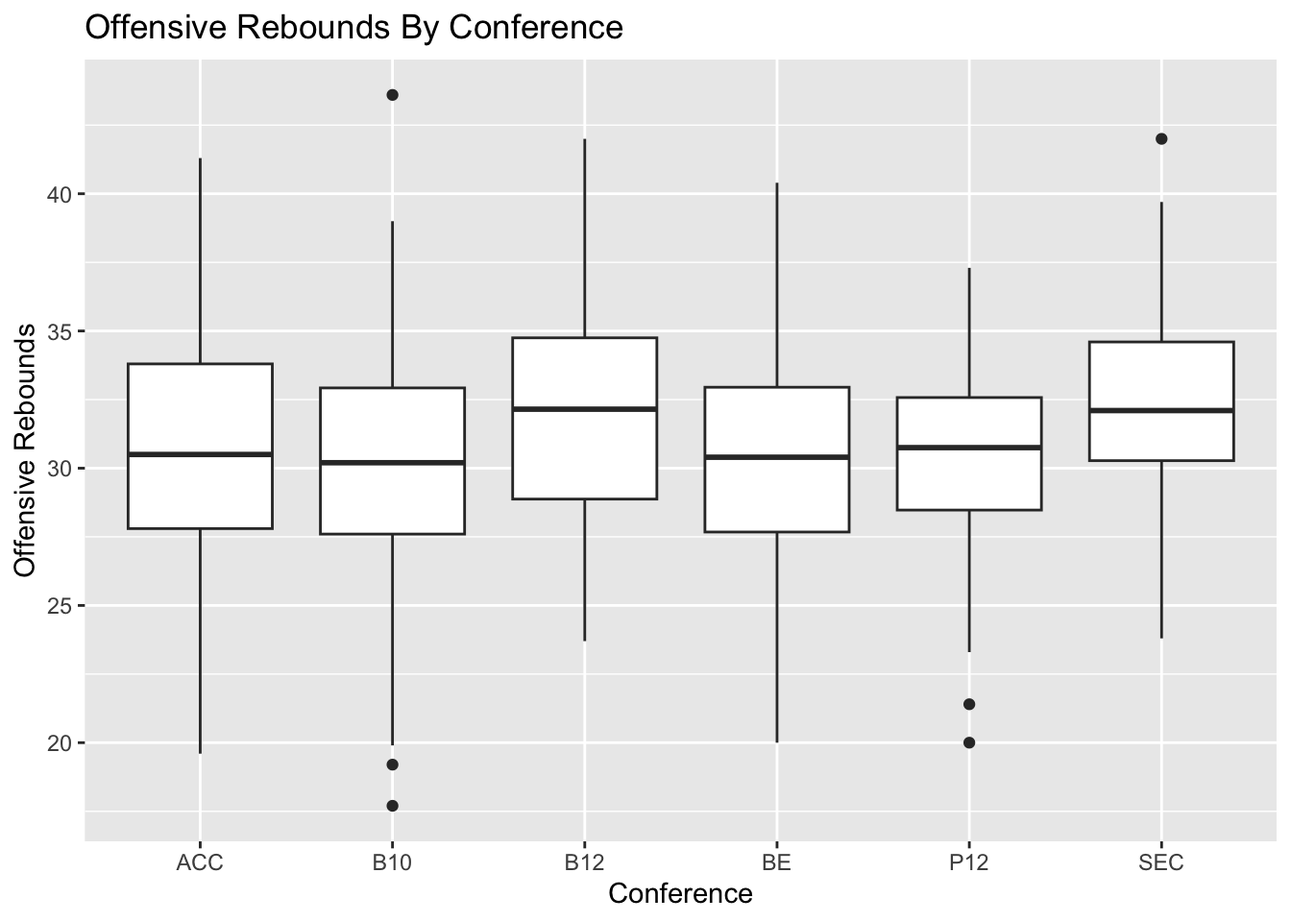
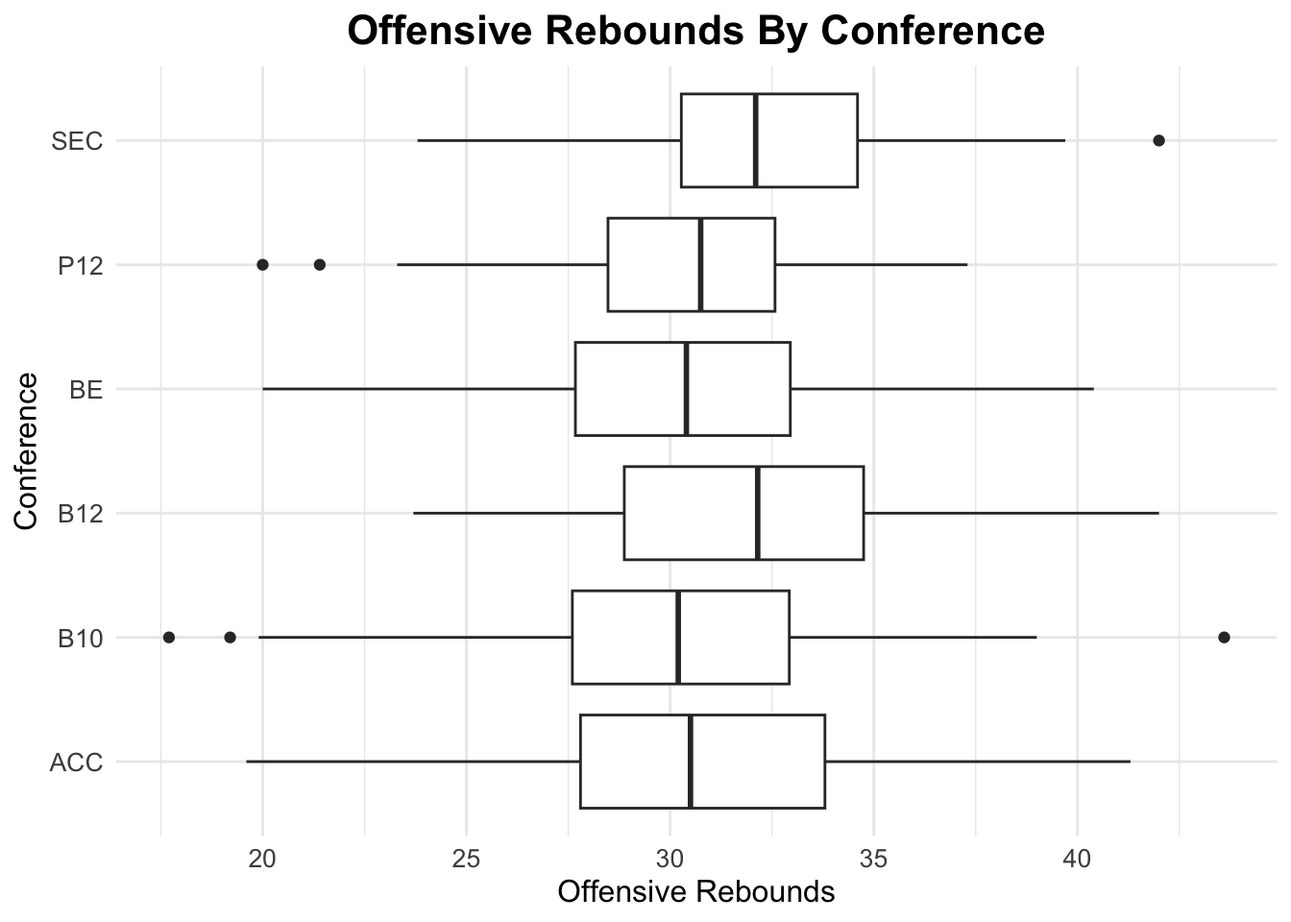
.

diff --git a/docs/-2.html b/docs/-2.html
@@ -440,7 +440,11 @@ singularities as well. 4.1412</code></pre>
 <div class="sourceCode cell-code" id="cb33"><pre class="sourceCode numberSource r number-lines code-with-copy"><code class="sourceCode r"><span id="cb33-1"><a href="#cb33-1"></a><span class="fu">library</span>(tidyverse)</span>
 <span id="cb33-2"><a href="#cb33-2"></a></span>
 <span id="cb33-3"><a href="#cb33-3"></a></span>
+<<<<<<< Updated upstream
 <span id="cb33-4"><a href="#cb33-4"></a><span class="fu">ggplot</span>(CONF_win_perc, <span class="fu">aes</span>(<span class="at">x =</span> <span class="fu">fct_reorder</span>(CONF, <span class="sc">-</span>win_percentage), <span class="at">y =</span> win_percentage, <span class="at">fill =</span> win_percentage)) <span class="sc">+</span></span>
+=======
+<span id="cb33-4"><a href="#cb33-4"></a><span class="fu">ggplot</span>(CONF_win_perc, <span class="fu">aes</span>(<span class="at">x =</span> <span class="fu">fct_reorder</span>(CONF, win_percentage), <span class="at">y =</span> win_percentage, <span class="at">fill =</span> win_percentage)) <span class="sc">+</span></span>
+>>>>>>> Stashed changes
 <span id="cb33-5"><a href="#cb33-5"></a>  <span class="fu">geom_col</span>() <span class="sc">+</span></span>
 <span id="cb33-6"><a href="#cb33-6"></a>  <span class="fu">coord_flip</span>() <span class="sc">+</span></span>
 <span id="cb33-7"><a href="#cb33-7"></a>  <span class="fu">labs</span>(</span>
@@ -451,7 +455,11 @@ singularities as well. 4.1412</code></pre>
 <span id="cb33-12"><a href="#cb33-12"></a>  ) <span class="sc">+</span></span>
 <span id="cb33-13"><a href="#cb33-13"></a>  <span class="fu">scale_fill_gradient</span>(<span class="at">low =</span> <span class="st">"lightblue"</span>, <span class="at">high =</span> <span class="st">"darkblue"</span>) <span class="sc">+</span></span>
 <span id="cb33-14"><a href="#cb33-14"></a>  <span class="fu">theme_minimal</span>() <span class="sc">+</span></span>
+<<<<<<< Updated upstream
 <span id="cb33-15"><a href="#cb33-15"></a>  <span class="fu">theme</span>(<span class="at">axis.text.y =</span> <span class="fu">element_text</span>(<span class="at">size =</span> <span class="dv">8</span>))</span></code><button title="Copy to Clipboard" class="code-copy-button"><i class="bi"></i></button></pre></div>
+=======
+<span id="cb33-15"><a href="#cb33-15"></a>  <span class="fu">theme</span>(<span class="at">axis.text.y =</span> <span class="fu">element_text</span>(<span class="at">size =</span> <span class="dv">10</span>))</span></code><button title="Copy to Clipboard" class="code-copy-button"><i class="bi"></i></button></pre></div>
+>>>>>>> Stashed changes
 <div class="cell-output cell-output-stderr">
 <pre><code>Warning: `fct_reorder()` removing 1 missing value.
 ℹ Use `.na_rm = TRUE` to silence this message.
@@ -479,7 +487,20 @@ singularities as well. 4.1412</code></pre>
 <span id="cb37-6"><a href="#cb37-6"></a>  <span class="fu">facet_wrap</span>(<span class="sc">~</span>CONF) <span class="sc">+</span></span>
 <span id="cb37-7"><a href="#cb37-7"></a>  <span class="fu">labs</span>(<span class="at">title =</span> <span class="st">"3 Point % Impact on Wins"</span>,</span>
 <span id="cb37-8"><a href="#cb37-8"></a>    <span class="at">x =</span> <span class="st">"3 Point %"</span>, </span>
+<<<<<<< Updated upstream
 <span id="cb37-9"><a href="#cb37-9"></a>       <span class="at">y =</span> <span class="st">"Number of Wins"</span>)</span></code><button title="Copy to Clipboard" class="code-copy-button"><i class="bi"></i></button></pre></div>
+=======
+<span id="cb37-9"><a href="#cb37-9"></a>       <span class="at">y =</span> <span class="st">"Number of Wins"</span>) <span class="sc">+</span></span>
+<span id="cb37-10"><a href="#cb37-10"></a>    <span class="fu">theme_minimal</span>(<span class="at">base_size =</span> <span class="dv">14</span>) <span class="sc">+</span>  </span>
+<span id="cb37-11"><a href="#cb37-11"></a>  <span class="fu">theme</span>(</span>
+<span id="cb37-12"><a href="#cb37-12"></a>    <span class="at">strip.text =</span> <span class="fu">element_text</span>(<span class="at">face =</span> <span class="st">"bold"</span>, <span class="at">size =</span> <span class="dv">12</span>),  </span>
+<span id="cb37-13"><a href="#cb37-13"></a>    <span class="at">plot.title =</span> <span class="fu">element_text</span>(<span class="at">face =</span> <span class="st">"bold"</span>, <span class="at">size =</span> <span class="dv">16</span>, <span class="at">hjust =</span> <span class="fl">0.5</span>),  </span>
+<span id="cb37-14"><a href="#cb37-14"></a>    <span class="at">plot.subtitle =</span> <span class="fu">element_text</span>(<span class="at">hjust =</span> <span class="fl">0.5</span>, <span class="at">size =</span> <span class="dv">12</span>),  </span>
+<span id="cb37-15"><a href="#cb37-15"></a>    <span class="at">axis.title =</span> <span class="fu">element_text</span>(<span class="at">face =</span> <span class="st">"bold"</span>),  </span>
+<span id="cb37-16"><a href="#cb37-16"></a>    <span class="at">panel.grid.major =</span> <span class="fu">element_line</span>(<span class="at">color =</span> <span class="st">"gray85"</span>, <span class="at">linetype =</span> <span class="st">"dashed"</span>),  <span class="co"># Subtle grid lines</span></span>
+<span id="cb37-17"><a href="#cb37-17"></a>    <span class="at">panel.spacing =</span> <span class="fu">unit</span>(<span class="fl">1.2</span>, <span class="st">"lines"</span>)  <span class="co"># Increase spacing between facets</span></span>
+<span id="cb37-18"><a href="#cb37-18"></a>  )</span></code><button title="Copy to Clipboard" class="code-copy-button"><i class="bi"></i></button></pre></div>
+>>>>>>> Stashed changes
 <div class="cell-output cell-output-stderr">
 <pre><code>`geom_smooth()` using formula = 'y ~ x'</code></pre>
 </div>
@@ -555,11 +576,24 @@ singularities as well. 4.1412</code></pre>
 <div class="sourceCode cell-code" id="cb46"><pre class="sourceCode numberSource r number-lines code-with-copy"><code class="sourceCode r"><span id="cb46-1"><a href="#cb46-1"></a>march_madness_new <span class="sc">|&gt;</span></span>
 <span id="cb46-2"><a href="#cb46-2"></a>  <span class="fu">filter</span>(CONF <span class="sc">%in%</span> <span class="fu">c</span>(<span class="st">"ACC"</span>, <span class="st">"B10"</span>, <span class="st">"B12"</span>, <span class="st">"SEC"</span>, <span class="st">"P12"</span>, <span class="st">"BE"</span>)) <span class="sc">|&gt;</span></span>
 <span id="cb46-3"><a href="#cb46-3"></a>  <span class="fu">ggplot</span>(<span class="fu">aes</span> (<span class="at">x =</span> ADJDE, <span class="at">y =</span> W, <span class="at">color =</span> CONF)) <span class="sc">+</span></span>
+<<<<<<< Updated upstream
 <span id="cb46-4"><a href="#cb46-4"></a>  <span class="fu">geom_point</span>() <span class="sc">+</span></span>
 <span id="cb46-5"><a href="#cb46-5"></a>  <span class="fu">geom_smooth</span>(<span class="at">se =</span> <span class="cn">FALSE</span>) <span class="sc">+</span></span>
 <span id="cb46-6"><a href="#cb46-6"></a>  <span class="fu">labs</span>(<span class="at">x =</span> <span class="st">"Defense Efficiency"</span>, <span class="at">y =</span> <span class="st">"Wins"</span>)</span></code><button title="Copy to Clipboard" class="code-copy-button"><i class="bi"></i></button></pre></div>
+=======
+<span id="cb46-4"><a href="#cb46-4"></a>  <span class="co">#geom_point() +</span></span>
+<span id="cb46-5"><a href="#cb46-5"></a>  <span class="fu">geom_smooth</span>(<span class="at">se =</span> <span class="cn">FALSE</span>, <span class="at">method =</span> <span class="st">"lm"</span>) <span class="sc">+</span> </span>
+<span id="cb46-6"><a href="#cb46-6"></a>  <span class="fu">labs</span>(<span class="at">title =</span> <span class="st">"Defensive Efficiency by Conference"</span>, <span class="at">x =</span> <span class="st">"Defense Efficiency"</span>, <span class="at">y =</span> <span class="st">"Wins"</span>) <span class="sc">+</span></span>
+<span id="cb46-7"><a href="#cb46-7"></a> <span class="fu">theme_minimal</span>(<span class="at">base_size =</span> <span class="dv">14</span>) <span class="sc">+</span>  <span class="co"># Clean, modern theme with larger base font size</span></span>
+<span id="cb46-8"><a href="#cb46-8"></a>  <span class="fu">theme</span>(</span>
+<span id="cb46-9"><a href="#cb46-9"></a>    <span class="at">legend.position =</span> <span class="st">"top"</span>,  </span>
+<span id="cb46-10"><a href="#cb46-10"></a>    <span class="at">plot.title =</span> <span class="fu">element_text</span>(<span class="at">face =</span> <span class="st">"bold"</span>, <span class="at">hjust =</span> <span class="fl">0.5</span>),  </span>
+<span id="cb46-11"><a href="#cb46-11"></a>    <span class="at">plot.subtitle =</span> <span class="fu">element_text</span>(<span class="at">hjust =</span> <span class="fl">0.5</span>, <span class="at">size =</span> <span class="dv">12</span>),</span>
+<span id="cb46-12"><a href="#cb46-12"></a>    <span class="at">axis.title =</span> <span class="fu">element_text</span>(<span class="at">face =</span> <span class="st">"bold"</span>)</span>
+<span id="cb46-13"><a href="#cb46-13"></a>  ) </span></code><button title="Copy to Clipboard" class="code-copy-button"><i class="bi"></i></button></pre></div>
+>>>>>>> Stashed changes
 <div class="cell-output cell-output-stderr">
-<pre><code>`geom_smooth()` using method = 'loess' and formula = 'y ~ x'</code></pre>
+<pre><code>`geom_smooth()` using formula = 'y ~ x'</code></pre>
 </div>
 <div class="cell-output-display">
 <div>
@@ -576,7 +610,21 @@ singularities as well. 4.1412</code></pre>
 <span id="cb48-4"><a href="#cb48-4"></a>  <span class="fu">geom_boxplot</span>() <span class="sc">+</span></span>
 <span id="cb48-5"><a href="#cb48-5"></a>  <span class="fu">labs</span>(<span class="at">title =</span> <span class="st">"Offensive Rebounds By Conference"</span>, </span>
 <span id="cb48-6"><a href="#cb48-6"></a>       <span class="at">x =</span> <span class="st">"Conference"</span>, </span>
+<<<<<<< Updated upstream
 <span id="cb48-7"><a href="#cb48-7"></a>       <span class="at">y =</span> <span class="st">"Offensive Rebounds"</span>)</span></code><button title="Copy to Clipboard" class="code-copy-button"><i class="bi"></i></button></pre></div>
+=======
+<span id="cb48-7"><a href="#cb48-7"></a>       <span class="at">y =</span> <span class="st">"Offensive Rebounds"</span>) <span class="sc">+</span></span>
+<span id="cb48-8"><a href="#cb48-8"></a>  <span class="fu">scale_fill_brewer</span>(<span class="at">palette =</span> <span class="st">"Set3"</span>) <span class="sc">+</span>  </span>
+<span id="cb48-9"><a href="#cb48-9"></a>  <span class="fu">theme_minimal</span>() <span class="sc">+</span> </span>
+<span id="cb48-10"><a href="#cb48-10"></a>  <span class="fu">theme</span>(</span>
+<span id="cb48-11"><a href="#cb48-11"></a>    <span class="at">plot.title =</span> <span class="fu">element_text</span>(<span class="at">size =</span> <span class="dv">16</span>, <span class="at">face =</span> <span class="st">"bold"</span>, <span class="at">hjust =</span> <span class="fl">0.5</span>),  <span class="co"># Style title</span></span>
+<span id="cb48-12"><a href="#cb48-12"></a>    <span class="at">plot.subtitle =</span> <span class="fu">element_text</span>(<span class="at">size =</span> <span class="dv">12</span>, <span class="at">hjust =</span> <span class="fl">0.5</span>),  <span class="co"># Style subtitle</span></span>
+<span id="cb48-13"><a href="#cb48-13"></a>    <span class="at">axis.text =</span> <span class="fu">element_text</span>(<span class="at">size =</span> <span class="dv">10</span>),</span>
+<span id="cb48-14"><a href="#cb48-14"></a>    <span class="at">axis.title =</span> <span class="fu">element_text</span>(<span class="at">size =</span> <span class="dv">12</span>),</span>
+<span id="cb48-15"><a href="#cb48-15"></a>    <span class="at">legend.position =</span> <span class="st">"none"</span>  <span class="co"># Remove redundant legend</span></span>
+<span id="cb48-16"><a href="#cb48-16"></a>  ) <span class="sc">+</span></span>
+<span id="cb48-17"><a href="#cb48-17"></a>  <span class="fu">coord_flip</span>()</span></code><button title="Copy to Clipboard" class="code-copy-button"><i class="bi"></i></button></pre></div>
+>>>>>>> Stashed changes
 <div class="cell-output-display">
 <div>
 <figure class="figure">
@@ -1228,6 +1276,7 @@ window.document.addEventListener("DOMContentLoaded", function (event) {
 <span id="cb50-12"><a href="#cb50-12"></a></span>
 <span id="cb50-13"><a href="#cb50-13"></a></span>
 <span id="cb50-14"><a href="#cb50-14"></a><span class="in">```</span></span>
+<<<<<<< Updated upstream
 <span id="cb50-17"><a href="#cb50-17"></a><span class="in">```{r}</span></span>
 <span id="cb50-18"><a href="#cb50-18"></a><span class="fu">library</span>(dplyr)</span>
 <span id="cb50-19"><a href="#cb50-19"></a><span class="fu">library</span>(tidyverse)</span>
@@ -1379,6 +1428,177 @@ window.document.addEventListener("DOMContentLoaded", function (event) {
 <span id="cb50-191"><a href="#cb50-191"></a></span>
 <span id="cb50-192"><a href="#cb50-192"></a></span>
 <span id="cb50-193"><a href="#cb50-193"></a></span>
+=======
+<span id="cb50-15"><a href="#cb50-15"></a></span>
+<span id="cb50-18"><a href="#cb50-18"></a><span class="in">```{r}</span></span>
+<span id="cb50-19"><a href="#cb50-19"></a><span class="fu">library</span>(dplyr)</span>
+<span id="cb50-20"><a href="#cb50-20"></a><span class="fu">library</span>(tidyverse)</span>
+<span id="cb50-21"><a href="#cb50-21"></a>march_madness <span class="sc">|&gt;</span></span>
+<span id="cb50-22"><a href="#cb50-22"></a>  <span class="fu">str</span>()</span>
+<span id="cb50-23"><a href="#cb50-23"></a><span class="in">```</span></span>
+<span id="cb50-24"><a href="#cb50-24"></a></span>
+<span id="cb50-27"><a href="#cb50-27"></a><span class="in">```{r}</span></span>
+<span id="cb50-28"><a href="#cb50-28"></a>march_madness <span class="sc">|&gt;</span></span>
+<span id="cb50-29"><a href="#cb50-29"></a>  <span class="fu">ggplot</span>(<span class="fu">aes</span>(<span class="at">x =</span> <span class="st">`</span><span class="at">POWER RATING</span><span class="st">`</span>)) <span class="sc">+</span></span>
+<span id="cb50-30"><a href="#cb50-30"></a>  <span class="fu">geom_density</span>()</span>
+<span id="cb50-31"><a href="#cb50-31"></a><span class="in">```</span></span>
+<span id="cb50-32"><a href="#cb50-32"></a></span>
+<span id="cb50-35"><a href="#cb50-35"></a><span class="in">```{r}</span></span>
+<span id="cb50-36"><a href="#cb50-36"></a>march_madness <span class="sc">|&gt;</span></span>
+<span id="cb50-37"><a href="#cb50-37"></a>  <span class="fu">filter</span>(TEAM <span class="sc">==</span><span class="st">"Duke"</span>) <span class="sc">|&gt;</span></span>
+<span id="cb50-38"><a href="#cb50-38"></a>  <span class="fu">ggplot</span>(<span class="fu">aes</span>(<span class="at">x =</span> YEAR, <span class="at">y =</span> SEED)) <span class="sc">+</span></span>
+<span id="cb50-39"><a href="#cb50-39"></a>  <span class="fu">geom_point</span>()</span>
+<span id="cb50-40"><a href="#cb50-40"></a><span class="in">```</span></span>
+<span id="cb50-41"><a href="#cb50-41"></a></span>
+<span id="cb50-44"><a href="#cb50-44"></a><span class="in">```{r}</span></span>
+<span id="cb50-45"><a href="#cb50-45"></a>uconn <span class="ot">&lt;-</span> march_madness<span class="sc">|&gt;</span></span>
+<span id="cb50-46"><a href="#cb50-46"></a>  <span class="fu">filter</span>(TEAM <span class="sc">==</span> <span class="st">"Connecticut"</span>)</span>
+<span id="cb50-47"><a href="#cb50-47"></a></span>
+<span id="cb50-48"><a href="#cb50-48"></a>uconn <span class="sc">|&gt;</span> </span>
+<span id="cb50-49"><a href="#cb50-49"></a>  <span class="fu">ggplot</span>(<span class="fu">aes</span>(<span class="at">x =</span> YEAR, <span class="at">y =</span> ROUND)) <span class="sc">+</span></span>
+<span id="cb50-50"><a href="#cb50-50"></a>  <span class="fu">geom_point</span>() <span class="sc">+</span></span>
+<span id="cb50-51"><a href="#cb50-51"></a>  <span class="fu">geom_smooth</span>()</span>
+<span id="cb50-52"><a href="#cb50-52"></a><span class="in">```</span></span>
+<span id="cb50-53"><a href="#cb50-53"></a></span>
+<span id="cb50-56"><a href="#cb50-56"></a><span class="in">```{r}</span></span>
+<span id="cb50-57"><a href="#cb50-57"></a> march_madness_new <span class="ot">&lt;-</span> march_madness <span class="sc">|&gt;</span></span>
+<span id="cb50-58"><a href="#cb50-58"></a>  <span class="fu">mutate</span>(<span class="at">SEED =</span> <span class="fu">as.character</span>(SEED))</span>
+<span id="cb50-59"><a href="#cb50-59"></a></span>
+<span id="cb50-60"><a href="#cb50-60"></a>march_madness_new <span class="ot">&lt;-</span> march_madness_new<span class="sc">|&gt;</span></span>
+<span id="cb50-61"><a href="#cb50-61"></a><span class="fu">full_join</span>(cbb)</span>
+<span id="cb50-62"><a href="#cb50-62"></a><span class="in">```</span></span>
+<span id="cb50-63"><a href="#cb50-63"></a></span>
+<span id="cb50-66"><a href="#cb50-66"></a><span class="in">```{r}</span></span>
+<span id="cb50-67"><a href="#cb50-67"></a>march_madness_new <span class="sc">|&gt;</span></span>
+<span id="cb50-68"><a href="#cb50-68"></a><span class="fu">aggregate</span>(<span class="st">`</span><span class="at">3P_O</span><span class="st">`</span> <span class="sc">~</span> CONF <span class="sc">+</span> YEAR, <span class="at">FUN =</span> mean) <span class="sc">|&gt;</span></span>
+<span id="cb50-69"><a href="#cb50-69"></a>  <span class="fu">filter</span>(CONF <span class="sc">%in%</span> <span class="fu">c</span>(<span class="st">"ACC"</span>, <span class="st">"B10"</span>, <span class="st">"B12"</span>, <span class="st">"SEC"</span>, <span class="st">"P12"</span>, <span class="st">"BE"</span>)) <span class="sc">|&gt;</span></span>
+<span id="cb50-70"><a href="#cb50-70"></a> <span class="co"># filter(YEAR == "2016") |&gt;</span></span>
+<span id="cb50-71"><a href="#cb50-71"></a>  <span class="fu">ggplot</span>(<span class="fu">aes</span>(<span class="at">x =</span> CONF, <span class="at">y =</span> <span class="st">`</span><span class="at">3P_O</span><span class="st">`</span>)) <span class="sc">+</span></span>
+<span id="cb50-72"><a href="#cb50-72"></a>    <span class="fu">geom_boxplot</span>() <span class="sc">+</span></span>
+<span id="cb50-73"><a href="#cb50-73"></a>  <span class="fu">labs</span>(<span class="at">title =</span> <span class="st">"3 Point Percentage by Conference"</span>, </span>
+<span id="cb50-74"><a href="#cb50-74"></a>       <span class="at">x =</span> <span class="st">"Conference"</span>,</span>
+<span id="cb50-75"><a href="#cb50-75"></a>       <span class="at">y =</span> <span class="st">"3 Point %"</span>) <span class="sc">+</span></span>
+<span id="cb50-76"><a href="#cb50-76"></a>  <span class="fu">theme_minimal</span>()</span>
+<span id="cb50-77"><a href="#cb50-77"></a><span class="in">```</span></span>
+<span id="cb50-78"><a href="#cb50-78"></a></span>
+<span id="cb50-81"><a href="#cb50-81"></a><span class="in">```{r}</span></span>
+<span id="cb50-82"><a href="#cb50-82"></a>CONF_win_perc <span class="ot">&lt;-</span> march_madness_new <span class="sc">|&gt;</span></span>
+<span id="cb50-83"><a href="#cb50-83"></a>  <span class="fu">group_by</span>(CONF) <span class="sc">|&gt;</span></span>
+<span id="cb50-84"><a href="#cb50-84"></a>  <span class="fu">summarise</span>(</span>
+<span id="cb50-85"><a href="#cb50-85"></a>    <span class="at">total_games_played =</span> <span class="fu">sum</span>(G, <span class="at">na.rm =</span> <span class="cn">TRUE</span>),</span>
+<span id="cb50-86"><a href="#cb50-86"></a>    <span class="at">total_games_won =</span> <span class="fu">sum</span>(W, <span class="at">na.rm =</span> <span class="cn">TRUE</span>),</span>
+<span id="cb50-87"><a href="#cb50-87"></a>    <span class="at">win_percentage =</span> total_games_won <span class="sc">/</span> total_games_played <span class="sc">*</span> <span class="dv">100</span></span>
+<span id="cb50-88"><a href="#cb50-88"></a>  )</span>
+<span id="cb50-89"><a href="#cb50-89"></a></span>
+<span id="cb50-90"><a href="#cb50-90"></a> </span>
+<span id="cb50-91"><a href="#cb50-91"></a><span class="in">```</span></span>
+<span id="cb50-92"><a href="#cb50-92"></a></span>
+<span id="cb50-93"><a href="#cb50-93"></a><span class="in">```{r, fig.height=6}</span></span>
+<span id="cb50-94"><a href="#cb50-94"></a></span>
+<span id="cb50-95"><a href="#cb50-95"></a><span class="in">library(tidyverse)</span></span>
+<span id="cb50-96"><a href="#cb50-96"></a></span>
+<span id="cb50-97"><a href="#cb50-97"></a></span>
+<span id="cb50-98"><a href="#cb50-98"></a><span class="in">ggplot(CONF_win_perc, aes(x = fct_reorder(CONF, win_percentage), y = win_percentage, fill = win_percentage)) +</span></span>
+<span id="cb50-99"><a href="#cb50-99"></a><span class="in">  geom_col() +</span></span>
+<span id="cb50-100"><a href="#cb50-100"></a><span class="in">  coord_flip() +</span></span>
+<span id="cb50-101"><a href="#cb50-101"></a><span class="in">  labs(</span></span>
+<span id="cb50-102"><a href="#cb50-102"></a><span class="in">    title = "Win Percentage by Conference",</span></span>
+<span id="cb50-103"><a href="#cb50-103"></a><span class="in">    x = "Conference",</span></span>
+<span id="cb50-104"><a href="#cb50-104"></a><span class="in">    y = "Win Percentage (%)",</span></span>
+<span id="cb50-105"><a href="#cb50-105"></a><span class="in">    fill = "Win Rate (%)"</span></span>
+<span id="cb50-106"><a href="#cb50-106"></a><span class="in">  ) +</span></span>
+<span id="cb50-107"><a href="#cb50-107"></a><span class="in">  scale_fill_gradient(low = "lightblue", high = "darkblue") +</span></span>
+<span id="cb50-108"><a href="#cb50-108"></a><span class="in">  theme_minimal() +</span></span>
+<span id="cb50-109"><a href="#cb50-109"></a><span class="in">  theme(axis.text.y = element_text(size = 10))</span></span>
+<span id="cb50-110"><a href="#cb50-110"></a><span class="in">#try to expand the y axis to make it more readable -per amin</span></span>
+<span id="cb50-111"><a href="#cb50-111"></a><span class="in">```</span></span>
+<span id="cb50-112"><a href="#cb50-112"></a></span>
+<span id="cb50-115"><a href="#cb50-115"></a><span class="in">```{r}</span></span>
+<span id="cb50-116"><a href="#cb50-116"></a>march_madness_new <span class="sc">|&gt;</span></span>
+<span id="cb50-117"><a href="#cb50-117"></a>  <span class="fu">filter</span>(CONF <span class="sc">%in%</span> <span class="fu">c</span>(<span class="st">"ACC"</span>, <span class="st">"B10"</span>, <span class="st">"B12"</span>, <span class="st">"SEC"</span>, <span class="st">"P12"</span>, <span class="st">"BE"</span>)) <span class="sc">|&gt;</span></span>
+<span id="cb50-118"><a href="#cb50-118"></a><span class="fu">ggplot</span>(<span class="fu">aes</span>(<span class="at">x =</span> <span class="st">`</span><span class="at">3P_O</span><span class="st">`</span>, <span class="at">y =</span> W)) <span class="sc">+</span></span>
+<span id="cb50-119"><a href="#cb50-119"></a>    <span class="fu">geom_point</span>() <span class="sc">+</span></span>
+<span id="cb50-120"><a href="#cb50-120"></a>  <span class="fu">geom_smooth</span>(<span class="at">method =</span> <span class="st">"lm"</span>, <span class="at">se =</span> <span class="cn">FALSE</span>) <span class="sc">+</span></span>
+<span id="cb50-121"><a href="#cb50-121"></a>  <span class="fu">facet_wrap</span>(<span class="sc">~</span>CONF) <span class="sc">+</span></span>
+<span id="cb50-122"><a href="#cb50-122"></a>  <span class="fu">labs</span>(<span class="at">title =</span> <span class="st">"3 Point % Impact on Wins"</span>,</span>
+<span id="cb50-123"><a href="#cb50-123"></a>    <span class="at">x =</span> <span class="st">"3 Point %"</span>, </span>
+<span id="cb50-124"><a href="#cb50-124"></a>       <span class="at">y =</span> <span class="st">"Number of Wins"</span>) <span class="sc">+</span></span>
+<span id="cb50-125"><a href="#cb50-125"></a>    <span class="fu">theme_minimal</span>(<span class="at">base_size =</span> <span class="dv">14</span>) <span class="sc">+</span>  </span>
+<span id="cb50-126"><a href="#cb50-126"></a>  <span class="fu">theme</span>(</span>
+<span id="cb50-127"><a href="#cb50-127"></a>    <span class="at">strip.text =</span> <span class="fu">element_text</span>(<span class="at">face =</span> <span class="st">"bold"</span>, <span class="at">size =</span> <span class="dv">12</span>),  </span>
+<span id="cb50-128"><a href="#cb50-128"></a>    <span class="at">plot.title =</span> <span class="fu">element_text</span>(<span class="at">face =</span> <span class="st">"bold"</span>, <span class="at">size =</span> <span class="dv">16</span>, <span class="at">hjust =</span> <span class="fl">0.5</span>),  </span>
+<span id="cb50-129"><a href="#cb50-129"></a>    <span class="at">plot.subtitle =</span> <span class="fu">element_text</span>(<span class="at">hjust =</span> <span class="fl">0.5</span>, <span class="at">size =</span> <span class="dv">12</span>),  </span>
+<span id="cb50-130"><a href="#cb50-130"></a>    <span class="at">axis.title =</span> <span class="fu">element_text</span>(<span class="at">face =</span> <span class="st">"bold"</span>),  </span>
+<span id="cb50-131"><a href="#cb50-131"></a>    <span class="at">panel.grid.major =</span> <span class="fu">element_line</span>(<span class="at">color =</span> <span class="st">"gray85"</span>, <span class="at">linetype =</span> <span class="st">"dashed"</span>),  <span class="co"># Subtle grid lines</span></span>
+<span id="cb50-132"><a href="#cb50-132"></a>    <span class="at">panel.spacing =</span> <span class="fu">unit</span>(<span class="fl">1.2</span>, <span class="st">"lines"</span>)  <span class="co"># Increase spacing between facets</span></span>
+<span id="cb50-133"><a href="#cb50-133"></a>  )</span>
+<span id="cb50-134"><a href="#cb50-134"></a></span>
+<span id="cb50-135"><a href="#cb50-135"></a></span>
+<span id="cb50-136"><a href="#cb50-136"></a></span>
+<span id="cb50-137"><a href="#cb50-137"></a><span class="in">```</span></span>
+<span id="cb50-138"><a href="#cb50-138"></a></span>
+<span id="cb50-141"><a href="#cb50-141"></a><span class="in">```{r}</span></span>
+<span id="cb50-142"><a href="#cb50-142"></a>march_madness_new <span class="sc">|&gt;</span></span>
+<span id="cb50-143"><a href="#cb50-143"></a>  <span class="fu">filter</span>(ROUND <span class="sc">==</span> <span class="st">"1"</span>) <span class="sc">|&gt;</span></span>
+<span id="cb50-144"><a href="#cb50-144"></a>  <span class="fu">group_by</span>(TEAM) <span class="sc">|&gt;</span></span>
+<span id="cb50-145"><a href="#cb50-145"></a>  <span class="fu">ggplot</span>(<span class="fu">aes</span>(<span class="at">x =</span> TEAM, <span class="at">y =</span> <span class="st">`</span><span class="at">3P_O</span><span class="st">`</span>)) <span class="sc">+</span></span>
+<span id="cb50-146"><a href="#cb50-146"></a>  <span class="fu">geom_point</span>() <span class="sc">+</span></span>
+<span id="cb50-147"><a href="#cb50-147"></a> <span class="fu">scale_y_continuous</span>(<span class="at">expand =</span> <span class="fu">expansion</span>(<span class="at">add =</span> <span class="dv">20</span>)) <span class="sc">+</span></span>
+<span id="cb50-148"><a href="#cb50-148"></a>  <span class="fu">labs</span>(<span class="at">title =</span> <span class="st">"Champions 3 Point %"</span>) </span>
+<span id="cb50-149"><a href="#cb50-149"></a></span>
+<span id="cb50-150"><a href="#cb50-150"></a>  </span>
+<span id="cb50-151"><a href="#cb50-151"></a><span class="in">```</span></span>
+<span id="cb50-152"><a href="#cb50-152"></a></span>
+<span id="cb50-155"><a href="#cb50-155"></a><span class="in">```{r}</span></span>
+<span id="cb50-156"><a href="#cb50-156"></a>march_madness_new <span class="sc">|&gt;</span></span>
+<span id="cb50-157"><a href="#cb50-157"></a>  <span class="fu">ggplot</span>(<span class="fu">aes</span>(<span class="at">x =</span> <span class="st">`</span><span class="at">3P_D</span><span class="st">`</span>, <span class="at">y =</span> W)) <span class="sc">+</span></span>
+<span id="cb50-158"><a href="#cb50-158"></a>  <span class="fu">geom_point</span>() <span class="sc">+</span></span>
+<span id="cb50-159"><a href="#cb50-159"></a>  <span class="fu">geom_smooth</span>()</span>
+<span id="cb50-160"><a href="#cb50-160"></a></span>
+<span id="cb50-161"><a href="#cb50-161"></a><span class="in">```</span></span>
+<span id="cb50-162"><a href="#cb50-162"></a></span>
+<span id="cb50-165"><a href="#cb50-165"></a><span class="in">```{r}</span></span>
+<span id="cb50-166"><a href="#cb50-166"></a>CONF_win_perc <span class="sc">|&gt;</span></span>
+<span id="cb50-167"><a href="#cb50-167"></a>  <span class="fu">arrange</span>(<span class="fu">desc</span>(win_percentage))</span>
+<span id="cb50-168"><a href="#cb50-168"></a><span class="in">```</span></span>
+<span id="cb50-169"><a href="#cb50-169"></a></span>
+<span id="cb50-172"><a href="#cb50-172"></a><span class="in">```{r}</span></span>
+<span id="cb50-173"><a href="#cb50-173"></a>march_madness_new <span class="sc">|&gt;</span></span>
+<span id="cb50-174"><a href="#cb50-174"></a>  <span class="fu">filter</span>(CONF <span class="sc">%in%</span> <span class="fu">c</span>(<span class="st">"ACC"</span>, <span class="st">"B10"</span>, <span class="st">"B12"</span>, <span class="st">"SEC"</span>, <span class="st">"P12"</span>, <span class="st">"BE"</span>)) <span class="sc">|&gt;</span></span>
+<span id="cb50-175"><a href="#cb50-175"></a>  <span class="fu">ggplot</span>(<span class="fu">aes</span> (<span class="at">x =</span> ADJDE, <span class="at">y =</span> W, <span class="at">color =</span> CONF)) <span class="sc">+</span></span>
+<span id="cb50-176"><a href="#cb50-176"></a>  <span class="co">#geom_point() +</span></span>
+<span id="cb50-177"><a href="#cb50-177"></a>  <span class="fu">geom_smooth</span>(<span class="at">se =</span> <span class="cn">FALSE</span>, <span class="at">method =</span> <span class="st">"lm"</span>) <span class="sc">+</span> </span>
+<span id="cb50-178"><a href="#cb50-178"></a>  <span class="fu">labs</span>(<span class="at">title =</span> <span class="st">"Defensive Efficiency by Conference"</span>, <span class="at">x =</span> <span class="st">"Defense Efficiency"</span>, <span class="at">y =</span> <span class="st">"Wins"</span>) <span class="sc">+</span></span>
+<span id="cb50-179"><a href="#cb50-179"></a> <span class="fu">theme_minimal</span>(<span class="at">base_size =</span> <span class="dv">14</span>) <span class="sc">+</span>  <span class="co"># Clean, modern theme with larger base font size</span></span>
+<span id="cb50-180"><a href="#cb50-180"></a>  <span class="fu">theme</span>(</span>
+<span id="cb50-181"><a href="#cb50-181"></a>    <span class="at">legend.position =</span> <span class="st">"top"</span>,  </span>
+<span id="cb50-182"><a href="#cb50-182"></a>    <span class="at">plot.title =</span> <span class="fu">element_text</span>(<span class="at">face =</span> <span class="st">"bold"</span>, <span class="at">hjust =</span> <span class="fl">0.5</span>),  </span>
+<span id="cb50-183"><a href="#cb50-183"></a>    <span class="at">plot.subtitle =</span> <span class="fu">element_text</span>(<span class="at">hjust =</span> <span class="fl">0.5</span>, <span class="at">size =</span> <span class="dv">12</span>),</span>
+<span id="cb50-184"><a href="#cb50-184"></a>    <span class="at">axis.title =</span> <span class="fu">element_text</span>(<span class="at">face =</span> <span class="st">"bold"</span>)</span>
+<span id="cb50-185"><a href="#cb50-185"></a>  ) </span>
+<span id="cb50-186"><a href="#cb50-186"></a><span class="in">```</span></span>
+<span id="cb50-187"><a href="#cb50-187"></a></span>
+<span id="cb50-190"><a href="#cb50-190"></a><span class="in">```{r}</span></span>
+<span id="cb50-191"><a href="#cb50-191"></a>march_madness_new <span class="sc">|&gt;</span></span>
+<span id="cb50-192"><a href="#cb50-192"></a>  <span class="fu">filter</span>(CONF <span class="sc">%in%</span> <span class="fu">c</span>(<span class="st">"ACC"</span>, <span class="st">"B10"</span>, <span class="st">"B12"</span>, <span class="st">"SEC"</span>, <span class="st">"P12"</span>, <span class="st">"BE"</span>)) <span class="sc">|&gt;</span></span>
+<span id="cb50-193"><a href="#cb50-193"></a>  <span class="fu">ggplot</span>(<span class="fu">aes</span>(<span class="at">x =</span> CONF, <span class="at">y =</span> ORB)) <span class="sc">+</span></span>
+<span id="cb50-194"><a href="#cb50-194"></a>  <span class="fu">geom_boxplot</span>() <span class="sc">+</span></span>
+<span id="cb50-195"><a href="#cb50-195"></a>  <span class="fu">labs</span>(<span class="at">title =</span> <span class="st">"Offensive Rebounds By Conference"</span>, </span>
+<span id="cb50-196"><a href="#cb50-196"></a>       <span class="at">x =</span> <span class="st">"Conference"</span>, </span>
+<span id="cb50-197"><a href="#cb50-197"></a>       <span class="at">y =</span> <span class="st">"Offensive Rebounds"</span>) <span class="sc">+</span></span>
+<span id="cb50-198"><a href="#cb50-198"></a>  <span class="fu">scale_fill_brewer</span>(<span class="at">palette =</span> <span class="st">"Set3"</span>) <span class="sc">+</span>  </span>
+<span id="cb50-199"><a href="#cb50-199"></a>  <span class="fu">theme_minimal</span>() <span class="sc">+</span> </span>
+<span id="cb50-200"><a href="#cb50-200"></a>  <span class="fu">theme</span>(</span>
+<span id="cb50-201"><a href="#cb50-201"></a>    <span class="at">plot.title =</span> <span class="fu">element_text</span>(<span class="at">size =</span> <span class="dv">16</span>, <span class="at">face =</span> <span class="st">"bold"</span>, <span class="at">hjust =</span> <span class="fl">0.5</span>),  <span class="co"># Style title</span></span>
+<span id="cb50-202"><a href="#cb50-202"></a>    <span class="at">plot.subtitle =</span> <span class="fu">element_text</span>(<span class="at">size =</span> <span class="dv">12</span>, <span class="at">hjust =</span> <span class="fl">0.5</span>),  <span class="co"># Style subtitle</span></span>
+<span id="cb50-203"><a href="#cb50-203"></a>    <span class="at">axis.text =</span> <span class="fu">element_text</span>(<span class="at">size =</span> <span class="dv">10</span>),</span>
+<span id="cb50-204"><a href="#cb50-204"></a>    <span class="at">axis.title =</span> <span class="fu">element_text</span>(<span class="at">size =</span> <span class="dv">12</span>),</span>
+<span id="cb50-205"><a href="#cb50-205"></a>    <span class="at">legend.position =</span> <span class="st">"none"</span>  <span class="co"># Remove redundant legend</span></span>
+<span id="cb50-206"><a href="#cb50-206"></a>  ) <span class="sc">+</span></span>
+<span id="cb50-207"><a href="#cb50-207"></a>  <span class="fu">coord_flip</span>()</span>
+<span id="cb50-208"><a href="#cb50-208"></a><span class="co">#This plot helps explain the strong paint presence in the SEC, showing why they are still able to compete at a high level in March Madness despite lower 3 point percentages. </span></span>
+<span id="cb50-209"><a href="#cb50-209"></a><span class="in">```</span></span>
+>>>>>>> Stashed changes
 </code><button title="Copy to Clipboard" class="code-copy-button" data-in-quarto-modal=""><i class="bi"></i></button></pre></div>
 </div></div></div></div></div>
 </div> <!-- /content -->

diff --git a/docs/index.html b/docs/index.html
@@ -233,7 +233,11 @@ pre > code.sourceCode > span > a:first-child::before { text-decoration: underlin
     <div>
     <div class="quarto-title-meta-heading">Published</div>
     <div class="quarto-title-meta-contents">
+<<<<<<< Updated upstream
       <p class="date">Monday, November 25, 2024</p>
+=======
+      <p class="date">Monday, December 2, 2024</p>
+>>>>>>> Stashed changes
     </div>
   </div>
   
